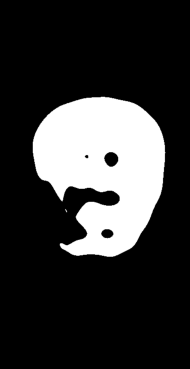
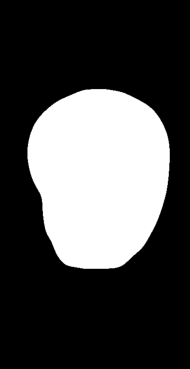
revised brain mask and contrast enhanced gnd truth

diff --git a/my_CDLNet/diff_model.py b/my_CDLNet/diff_model.py
@@ -456,7 +456,7 @@ def main():
     # immap2_out = immap.forward_2(kspace_masked, noise_level, mask, smaps, None)
     immap2_5_out, prox = immap.forward_2_e2econditioned(kspace_masked, noise_level, mask, smaps, lpdsnet, save_dir = None, verbose = True, mode=1)
     # Generate brain mask 
-    espirit_smaps = torch.flip(espirit(mask*kspace[None], acs_size=(16, 16)), dims = (-2, -1))
+    espirit_smaps = torch.flip(espirit(mask*kspace[None], acs_size=(24, 24)), dims = (-2, -1))
     brain_mask = torch.norm(espirit_smaps[0], dim = 0) != 0
     psnr_ = psnr(gnd_truth[brain_mask], immap2_5_out[0, 0, brain_mask])
     
